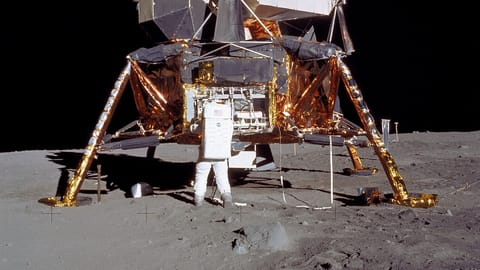
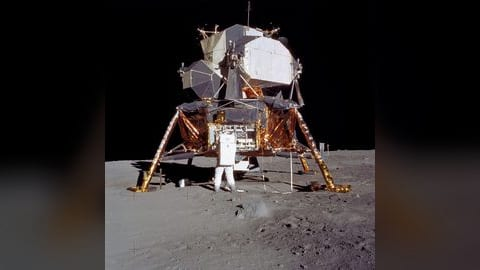
Lander photos: whole lander for Apollo 11 and 16; new Apollo 16 photo AS16-107-17436

diff --git a/scripts/assets/prepare-lander-images.ts b/scripts/assets/prepare-lander-images.ts
@@ -27,15 +27,15 @@ const PICKS: Pick[] = [
     caption: "Intuitive Machines Nova-C lander, the same design as IM-2 Athena (photo shows the IM-1 lander before launch)." },
   { id: "im1", file: "Intuitive Machines’ Nova-C lunar lander (IM 00309) (cropped).jpg", kind: "before launch",
     caption: "IM-1 Nova-C lander Odysseus before launch." },
-  { id: "a11", file: "As11-40-5927.jpg", kind: "on the Moon",
+  { id: "a11", fit: "contain", file: "As11-40-5927.jpg", kind: "on the Moon",
     caption: "Apollo 11 Lunar Module Eagle at Tranquility Base, with Buzz Aldrin (AS11-40-5927)." },
   { id: "a12", fit: "contain", file: "Apollo-12-LM.jpg", kind: "on the Moon", caption: "Apollo 12 Lunar Module Intrepid on the Moon." },
   { id: "a14", fit: "contain", file: "Apollo 14 Lunar Module (LM) on the moon.jpg", kind: "on the Moon",
     caption: "Apollo 14 Lunar Module Antares on the Moon (AS14-66-9277)." },
   { id: "a15", fit: "contain", file: "Apollo 15 flag, rover, LM, Irwin.jpg", kind: "on the Moon",
     caption: "Apollo 15: James Irwin beside Lunar Module Falcon and the rover at Hadley-Apennine (AS15-88-11866)." },
-  { id: "a16", file: "View of the Apollo 16 Lunar Module on the lunar surface (as16-113-18334).jpg", kind: "on the Moon",
-    caption: "Apollo 16 Lunar Module Orion at Descartes (AS16-113-18334)." },
+  { id: "a16", fit: "contain", file: "An excellent view of the Lunar Module (LM) “Orion” and Lunar Roving Vehicle (LRV).jpg", kind: "on the Moon",
+    caption: "Apollo 16 Lunar Module Orion and the rover at Descartes (AS16-107-17436)." },
   { id: "a17", file: "Apollo 17 first test of the lunar rover AS17-147-22527HR.jpg", kind: "on the Moon",
     caption: "Apollo 17: Eugene Cernan tests the rover beside Lunar Module Challenger (AS17-147-22527)." },
   { id: "bg1", file: "Firefly Blue Ghost lander mockup.jpg", kind: "full-scale model",

diff --git a/CREDITS.md b/CREDITS.md
@@ -35,7 +35,7 @@ From Wikimedia Commons, licence checked at download time by `scripts/assets/prep
 | Apollo 12 | Apollo 12 Lunar Module Intrepid on the Moon. (on the Moon) | NASA | Public domain | https://commons.wikimedia.org/wiki/File:Apollo-12-LM.jpg |
 | Apollo 14 | Apollo 14 Lunar Module Antares on the Moon (AS14-66-9277). (on the Moon) | NASA | Public domain | https://commons.wikimedia.org/wiki/File:Apollo_14_Lunar_Module_(LM)_on_the_moon.jpg |
 | Apollo 15 | Apollo 15: James Irwin beside Lunar Module Falcon and the rover at Hadley-Apennine (AS15-88-11866). (on the Moon) | Astronaut David R. Scott, Apollo 15 commander. | Public domain | https://commons.wikimedia.org/wiki/File:Apollo_15_flag,_rover,_LM,_Irwin.jpg |
-| Apollo 16 | Apollo 16 Lunar Module Orion at Descartes (AS16-113-18334). (on the Moon) | NASA Johnson Space Center | Public domain | https://commons.wikimedia.org/wiki/File:View_of_the_Apollo_16_Lunar_Module_on_the_lunar_surface_(as16-113-18334).jpg |
+| Apollo 16 | Apollo 16 Lunar Module Orion and the rover at Descartes (AS16-107-17436). (on the Moon) | NASA | Public domain | https://commons.wikimedia.org/wiki/File:An_excellent_view_of_the_Lunar_Module_(LM)_%E2%80%9COrion%E2%80%9D_and_Lunar_Roving_Vehicle_(LRV).jpg |
 | Apollo 17 | Apollo 17: Eugene Cernan tests the rover beside Lunar Module Challenger (AS17-147-22527). (on the Moon) | NASA | Public domain | https://commons.wikimedia.org/wiki/File:Apollo_17_first_test_of_the_lunar_rover_AS17-147-22527HR.jpg |
 | Blue Ghost 1 | Firefly Blue Ghost lander mockup (Space Symposium 2025). (full-scale model) | Blervis | CC BY 4.0 | https://commons.wikimedia.org/wiki/File:Firefly_Blue_Ghost_lander_mockup.jpg |
 | Chandrayaan-3 | Chandrayaan-3 Vikram lander on the Moon, imaged by the Pragyan rover (crop of a stereo image). (on the Moon) | ISRO/Simeon Schmauß | CC BY 2.0 | https://commons.wikimedia.org/wiki/File:Chandrayaan_3_Vikram_lander_stereo_(53167467822)_crop.png |
